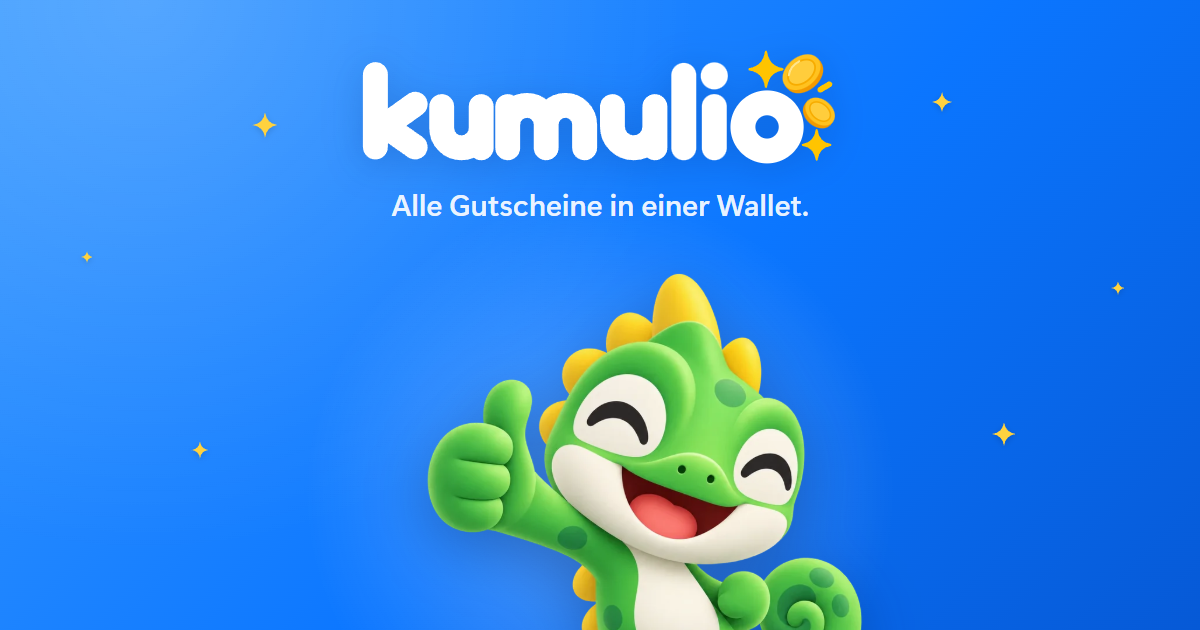
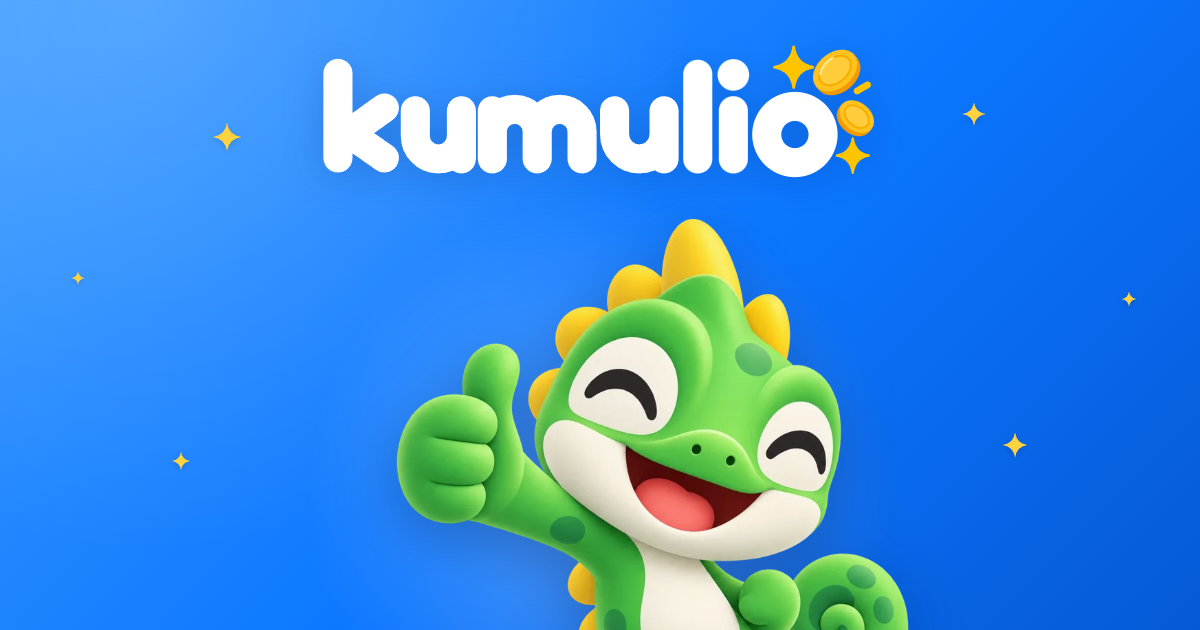
Link-Vorschau ohne kleinen Satz: bleibt im WhatsApp-Mini-Quadrat scharf
WhatsApp verkleinert die Vorschau auf ein Mini-Quadrat und komprimiert es
stark; der kleine Satz zerfiel dabei zu Pixeln. Jetzt nur Wortmarke und
Kumulio, beide groesser (der Satz steht ohnehin als Text daneben). JPEG
ohne progressive Kodierung.

diff --git a/public/index.html b/public/index.html
@@ -16,8 +16,8 @@
   <meta property="og:title" content="kumulio: deine Gutschein-Wallet">
   <meta property="og:description" content="Alle Gutscheine in einer Wallet. Dazu Cashback in Lios, Gutscheine an Freunde verschenken und Coupons merken.">
   <meta property="og:url" content="https://kumulio.de/">
-  <meta property="og:image" content="https://kumulio.de/brand/og-kumulio-4.jpg">
-  <meta property="og:image:secure_url" content="https://kumulio.de/brand/og-kumulio-4.jpg">
+  <meta property="og:image" content="https://kumulio.de/brand/og-kumulio-5.jpg">
+  <meta property="og:image:secure_url" content="https://kumulio.de/brand/og-kumulio-5.jpg">
   <meta property="og:image:type" content="image/jpeg">
   <meta property="og:image:alt" content="kumulio: Kumulio das Chamäleon zeigt Daumen hoch, daneben die Wortmarke">
   <meta property="og:image:width" content="1200">
@@ -26,7 +26,7 @@
   <meta name="twitter:card" content="summary_large_image">
   <meta name="twitter:title" content="kumulio: deine Gutschein-Wallet">
   <meta name="twitter:description" content="Alle Gutscheine in einer Wallet. Dazu Cashback in Lios, Gutscheine an Freunde verschenken und Coupons merken.">
-  <meta name="twitter:image" content="https://kumulio.de/brand/og-kumulio-4.jpg">
+  <meta name="twitter:image" content="https://kumulio.de/brand/og-kumulio-5.jpg">
   <link rel="icon" href="/brand/kumulio-icon.svg?v=2" type="image/svg+xml">
   <!-- iOS nimmt kein SVG fuer den Home-Bildschirm: echtes PNG noetig -->
   <link rel="apple-touch-icon" sizes="180x180" href="/brand/apple-touch-icon.png?v=2">
